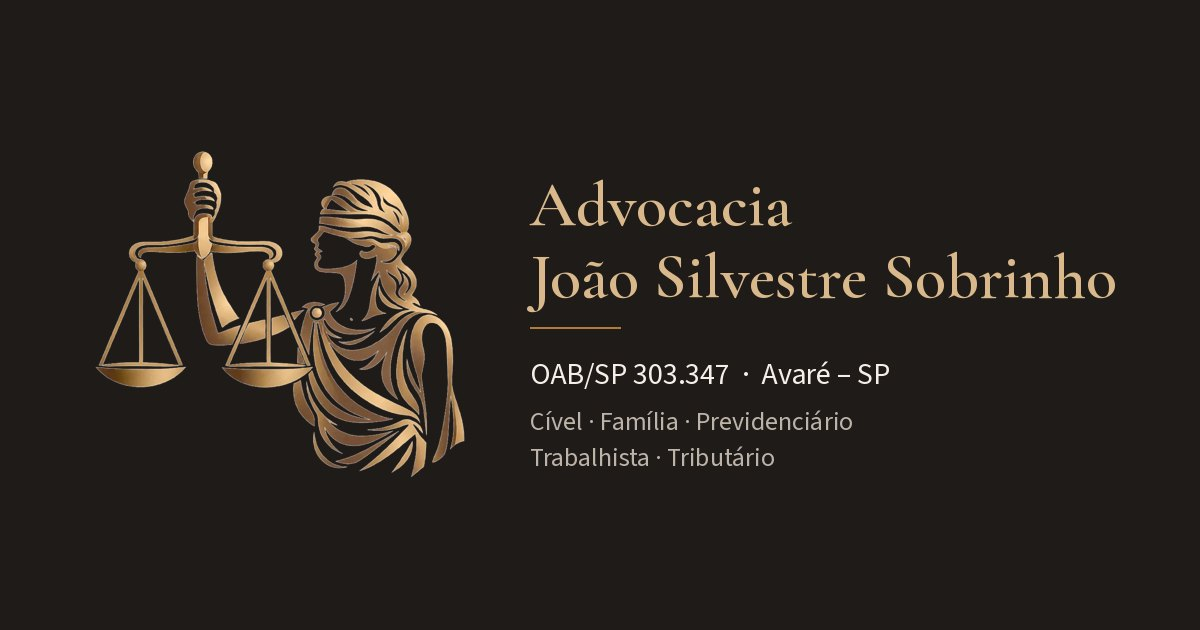
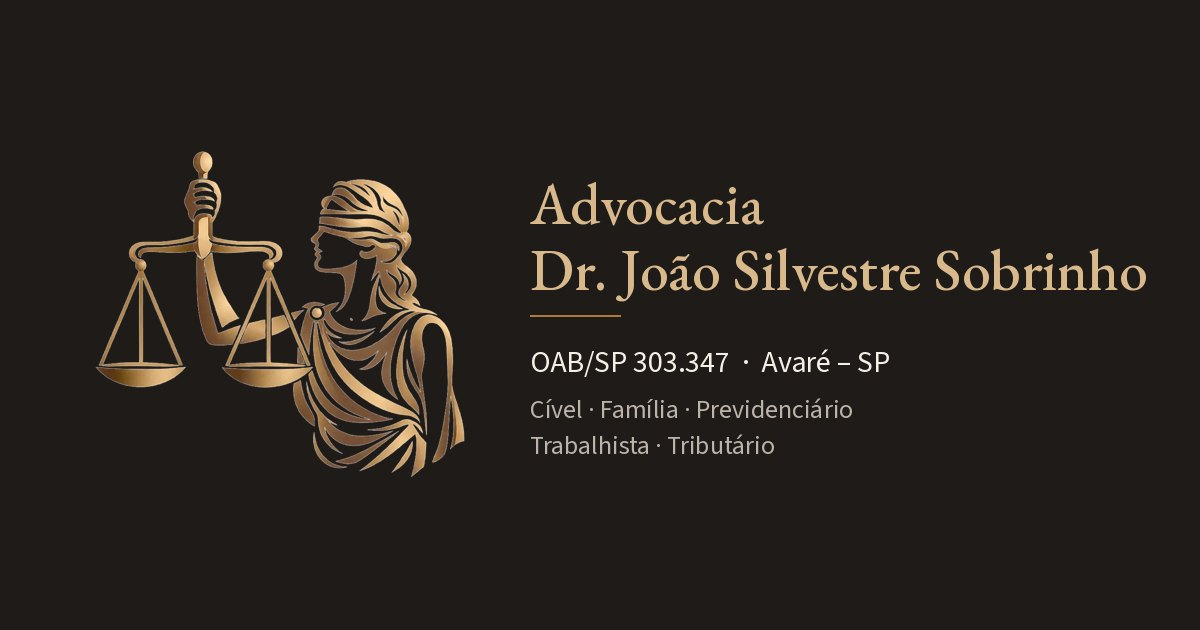
Usa "Dr." antes do nome do João Silvestre Sobrinho em todo o site
- Textos visíveis, título/descrição do Google, mensagens do WhatsApp,
  textos alternativos e imagem de compartilhamento (Open Graph).
- Dados estruturados: nome civil + honorificPrefix "Dr.".
- Nome no hero um pouco menor no desktop para caber com o "Dr.".

Claude-Session: https://claude.ai/code/session_01PJy5wTxvw6mYGraS4unPhF

Changed region(s): [[0.4317, 0.3921, 0.9558, 0.754], [0.4317, 0.2714, 0.6783, 0.3619]]

diff --git a/lib/site-config.ts b/lib/site-config.ts
@@ -58,8 +58,8 @@ export type Lawyer = {
 
 export const siteConfig = {
   url: siteUrl,
-  name: "Advocacia João Silvestre Sobrinho",
-  shortName: "Advocacia João Silvestre",
+  name: "Advocacia Dr. João Silvestre Sobrinho",
+  shortName: "Advocacia Dr. João Silvestre",
   city: "Avaré",
   state: "SP",
 
@@ -95,12 +95,12 @@ export const siteConfig = {
   // ---------------------------------------------------------------------------
   whatsappMessages: {
     default:
-      "Olá! Vim pelo site da Advocacia João Silvestre Sobrinho e gostaria de agendar um atendimento.",
+      "Olá! Vim pelo site da Advocacia Dr. João Silvestre Sobrinho e gostaria de agendar um atendimento.",
     /** Usada no CTA abaixo das áreas, para quem não encontrou o próprio caso */
     question:
-      "Olá! Vim pelo site da Advocacia João Silvestre Sobrinho e gostaria de tirar uma dúvida sobre a minha situação.",
+      "Olá! Vim pelo site da Advocacia Dr. João Silvestre Sobrinho e gostaria de tirar uma dúvida sobre a minha situação.",
     /** {area} é substituído pelo nome completo da área */
-    area: "Olá! Vim pelo site da Advocacia João Silvestre Sobrinho e gostaria de falar sobre um assunto de {area}.",
+    area: "Olá! Vim pelo site da Advocacia Dr. João Silvestre Sobrinho e gostaria de falar sobre um assunto de {area}.",
   },
 
   // ---------------------------------------------------------------------------
@@ -157,7 +157,7 @@ export const siteConfig = {
   lawyers: [
     {
       id: "joao",
-      name: "João Silvestre Sobrinho",
+      name: "Dr. João Silvestre Sobrinho",
       oab: "OAB/SP 303.347",
       // TODO: preencher — salve a foto em /public/joao.jpg e troque para "/joao.jpg"
       photo: null,
@@ -165,7 +165,7 @@ export const siteConfig = {
       // TODO: confirmar se o Dr. João atua pessoalmente em todas as áreas
       areas: ["civel", "familia", "previdenciario", "trabalhista", "tributario"],
       bio: [
-        "Advogado responsável pela Advocacia João Silvestre Sobrinho, em Avaré. Atende pessoas, famílias e empresas de Avaré e região nas áreas cível, de família, previdenciária, trabalhista e tributária.",
+        "Advogado responsável pela Advocacia Dr. João Silvestre Sobrinho, em Avaré. Atende pessoas, famílias e empresas de Avaré e região nas áreas cível, de família, previdenciária, trabalhista e tributária.",
         "Seu trabalho parte de uma conversa franca: entender a situação, analisar os documentos e explicar as alternativas possíveis em linguagem clara.",
       ],
     },
@@ -182,7 +182,7 @@ export const siteConfig = {
       areas: [],
       // TODO: preencher a mini-bio do Dr. Rubens
       bio: [
-        "Advogado integrante da equipe da Advocacia João Silvestre Sobrinho, em Avaré.",
+        "Advogado integrante da equipe da Advocacia Dr. João Silvestre Sobrinho, em Avaré.",
       ],
     },
   ] as Lawyer[],

diff --git a/components/site/site-nav.tsx b/components/site/site-nav.tsx
@@ -105,7 +105,7 @@ export function SiteNav() {
           <span className="font-serif text-xl leading-tight font-semibold text-gold">
             Advocacia
             <br />
-            João Silvestre Sobrinho
+            Dr. João Silvestre Sobrinho
           </span>
           <span className="text-xs tracking-[0.14em] text-muted-cream uppercase">OAB/SP 303.347</span>
         </a>
@@ -132,7 +132,7 @@ export function SiteNav() {
         <a href="#inicio" className="flex min-w-0 items-center gap-2.5 rounded-sm">
           <Image src="/logo-claro.png" alt="" width={44} height={39} className="h-auto w-11 shrink-0" />
           <span className="truncate font-serif text-lg leading-tight font-semibold text-gold">
-            Advocacia João Silvestre
+            Advocacia Dr. João Silvestre
           </span>
           <span className="sr-only"> Sobrinho — voltar ao início</span>
         </a>
@@ -152,7 +152,7 @@ export function SiteNav() {
               <Image src="/logo-claro.png" alt="" width={56} height={50} className="h-auto w-14" />
               <div>
                 <SheetTitle className="font-serif text-lg leading-tight font-semibold text-gold">
-                  Advocacia João Silvestre Sobrinho
+                  Advocacia Dr. João Silvestre Sobrinho
                 </SheetTitle>
                 <SheetDescription className="text-xs tracking-[0.12em] text-muted-cream uppercase">
                   OAB/SP 303.347

diff --git a/components/site/about.tsx b/components/site/about.tsx
@@ -33,7 +33,7 @@ export function About() {
           <div className="relative aspect-square overflow-hidden bg-ink">
             <Image
               src="/fachada.jpg"
-              alt="Fachada do escritório Advocacia João Silvestre Sobrinho, Rua Domiciano Santana, 960, Avaré"
+              alt="Fachada do escritório Advocacia Dr. João Silvestre Sobrinho, Rua Domiciano Santana, 960, Avaré"
               fill
               sizes="(min-width: 1024px) 420px, 90vw"
               className="object-cover"
@@ -52,9 +52,9 @@ export function About() {
           {/* TODO: revisar os textos abaixo com o Dr. João */}
           <Reveal delay={80} className="mt-8 space-y-5 text-[1.0625rem] leading-relaxed text-muted-ink">
             <p>
-              <strong className="font-semibold text-ink">João Silvestre Sobrinho</strong> é advogado inscrito na{" "}
+              <strong className="font-semibold text-ink">Dr. João Silvestre Sobrinho</strong> é advogado inscrito na{" "}
               <strong className="font-semibold text-ink">OAB/SP sob o nº 303.347</strong> e responsável pela Advocacia
-              João Silvestre Sobrinho, no bairro Santa Cruz, em Avaré.
+              Dr. João Silvestre Sobrinho, no bairro Santa Cruz, em Avaré.
             </p>
             <p>
               O escritório atua nas áreas cível, de família, previdenciária, trabalhista e tributária, atendendo

diff --git a/components/site/hero.tsx b/components/site/hero.tsx
@@ -39,7 +39,7 @@ export function Hero() {
         <div className="flex flex-col items-start gap-5 sm:flex-row sm:items-center sm:gap-8">
           <Image
             src="/logo-claro.png"
-            alt="Logo da Advocacia João Silvestre Sobrinho: a deusa da justiça, Têmis, segurando a balança"
+            alt="Logo da Advocacia Dr. João Silvestre Sobrinho: a deusa da justiça, Têmis, segurando a balança"
             width={829}
             height={735}
             priority
@@ -47,10 +47,10 @@ export function Hero() {
             className="h-auto w-28 shrink-0 sm:w-44"
           />
           <div className="flex flex-col gap-3">
-            <p className="font-serif text-[2.125rem] leading-[1.08] font-medium text-gold sm:text-5xl xl:text-[3.5rem]">
+            <p className="font-serif text-[2.125rem] leading-[1.08] font-medium text-gold sm:text-5xl xl:text-[3.125rem]">
               Advocacia
               <br />
-              João Silvestre Sobrinho
+              Dr. João Silvestre Sobrinho
             </p>
             <p className="text-sm tracking-[0.16em] text-muted-cream uppercase">
               OAB/SP 303.347 <span aria-hidden="true">·</span> Avaré – SP

diff --git a/app/layout.tsx b/app/layout.tsx
@@ -21,9 +21,9 @@ const sourceSans = Source_Sans_3({
   display: "swap",
 });
 
-const title = "Advogado em Avaré – SP | Advocacia João Silvestre Sobrinho";
+const title = "Advogado em Avaré – SP | Advocacia Dr. João Silvestre Sobrinho";
 const description =
-  "Escritório de advocacia em Avaré – SP. Atuação nas áreas cível, de família, previdenciária, trabalhista e tributária. João Silvestre Sobrinho, OAB/SP 303.347. Atendimento presencial e pelo WhatsApp.";
+  "Escritório de advocacia em Avaré – SP. Atuação nas áreas cível, de família, previdenciária, trabalhista e tributária. Dr. João Silvestre Sobrinho, OAB/SP 303.347. Atendimento presencial e pelo WhatsApp.";
 
 export const metadata: Metadata = {
   metadataBase: new URL(siteConfig.url),
@@ -33,7 +33,7 @@ export const metadata: Metadata = {
   },
   description,
   applicationName: siteConfig.name,
-  authors: [{ name: "João Silvestre Sobrinho" }],
+  authors: [{ name: "Dr. João Silvestre Sobrinho" }],
   alternates: { canonical: "/" },
   formatDetection: { telephone: false },
   openGraph: {

diff --git a/components/site/whatsapp-float.tsx b/components/site/whatsapp-float.tsx
@@ -8,7 +8,7 @@ export function WhatsAppFloat() {
       href={whatsappUrl()}
       target="_blank"
       rel="noopener noreferrer"
-      aria-label="Conversar com a Advocacia João Silvestre Sobrinho pelo WhatsApp (abre em nova aba)"
+      aria-label="Conversar com a Advocacia Dr. João Silvestre Sobrinho pelo WhatsApp (abre em nova aba)"
       className="wa-pulse fixed right-4 bottom-4 z-50 inline-flex size-14 items-center justify-center rounded-full bg-[#25D366] text-white shadow-lg shadow-black/25 transition-transform duration-200 hover:scale-105 focus-visible:outline-offset-4 sm:right-6 sm:bottom-6 sm:size-16"
       style={{ marginBottom: "env(safe-area-inset-bottom)" }}
     >

diff --git a/components/site/footer.tsx b/components/site/footer.tsx
@@ -15,7 +15,7 @@ export function Footer() {
             <Image src="/logo-claro.png" alt="" width={72} height={64} className="h-auto w-[4.5rem] shrink-0" />
             <div>
               <p className="font-serif text-2xl leading-tight font-semibold text-gold">{siteConfig.name}</p>
-              <p className="mt-2 text-sm tracking-[0.14em] uppercase">João Silvestre Sobrinho · OAB/SP 303.347</p>
+              <p className="mt-2 text-sm tracking-[0.14em] uppercase">Dr. João Silvestre Sobrinho · OAB/SP 303.347</p>
             </div>
           </div>
 

diff --git a/app/politica-de-privacidade/page.tsx b/app/politica-de-privacidade/page.tsx
@@ -9,7 +9,7 @@ import { siteConfig } from "@/lib/site-config";
 export const metadata: Metadata = {
   title: "Política de Privacidade",
   description:
-    "Como a Advocacia João Silvestre Sobrinho, em Avaré – SP, trata os dados enviados pelo site, de acordo com a LGPD.",
+    "Como a Advocacia Dr. João Silvestre Sobrinho, em Avaré – SP, trata os dados enviados pelo site, de acordo com a LGPD.",
   alternates: { canonical: "/politica-de-privacidade" },
 };
 

diff --git a/app/globals.css b/app/globals.css
@@ -3,7 +3,7 @@
 
 /*
  * ============================================================================
- *  DESIGN SYSTEM — Advocacia João Silvestre Sobrinho
+ *  DESIGN SYSTEM — Advocacia Dr. João Silvestre Sobrinho
  * ============================================================================
  *  Direção: clássico e sóbrio, de escritório tradicional. Fundo claro
  *  branco-quente, blocos escuros (sidebar, hero, rodapé) e bronze da logo

diff --git a/components/site/contact-form.tsx b/components/site/contact-form.tsx
@@ -47,7 +47,7 @@ function validate(f: Fields): Errors {
 function buildMessage(f: Fields) {
   const area = siteConfig.practiceAreas.find((a) => a.id === f.area);
   return [
-    "Olá! Vim pelo site da Advocacia João Silvestre Sobrinho.",
+    "Olá! Vim pelo site da Advocacia Dr. João Silvestre Sobrinho.",
     "",
     `*Nome:* ${f.name.trim()}`,
     `*Área do assunto:* ${area?.fullName ?? f.area}`,

diff --git a/components/site/json-ld.tsx b/components/site/json-ld.tsx
@@ -41,6 +41,7 @@ export function JsonLd() {
         "@type": "Person",
         "@id": `${siteConfig.url}/#joao-silvestre-sobrinho`,
         name: "João Silvestre Sobrinho",
+        honorificPrefix: "Dr.",
         jobTitle: "Advogado",
         identifier: { "@type": "PropertyValue", propertyID: "OAB/SP", value: "303.347" },
         worksFor: { "@id": `${siteConfig.url}/#escritorio` },

diff --git a/README.md b/README.md
@@ -1,6 +1,6 @@
-# Advocacia João Silvestre Sobrinho — site institucional
+# Advocacia Dr. João Silvestre Sobrinho — site institucional
 
-Site one-page do escritório **Advocacia João Silvestre Sobrinho** (Avaré – SP), feito em
+Site one-page do escritório **Advocacia Dr. João Silvestre Sobrinho** (Avaré – SP), feito em
 Next.js 16 (App Router) + TypeScript + Tailwind CSS 4 + componentes no padrão shadcn/ui.
 
 ## Onde editar
